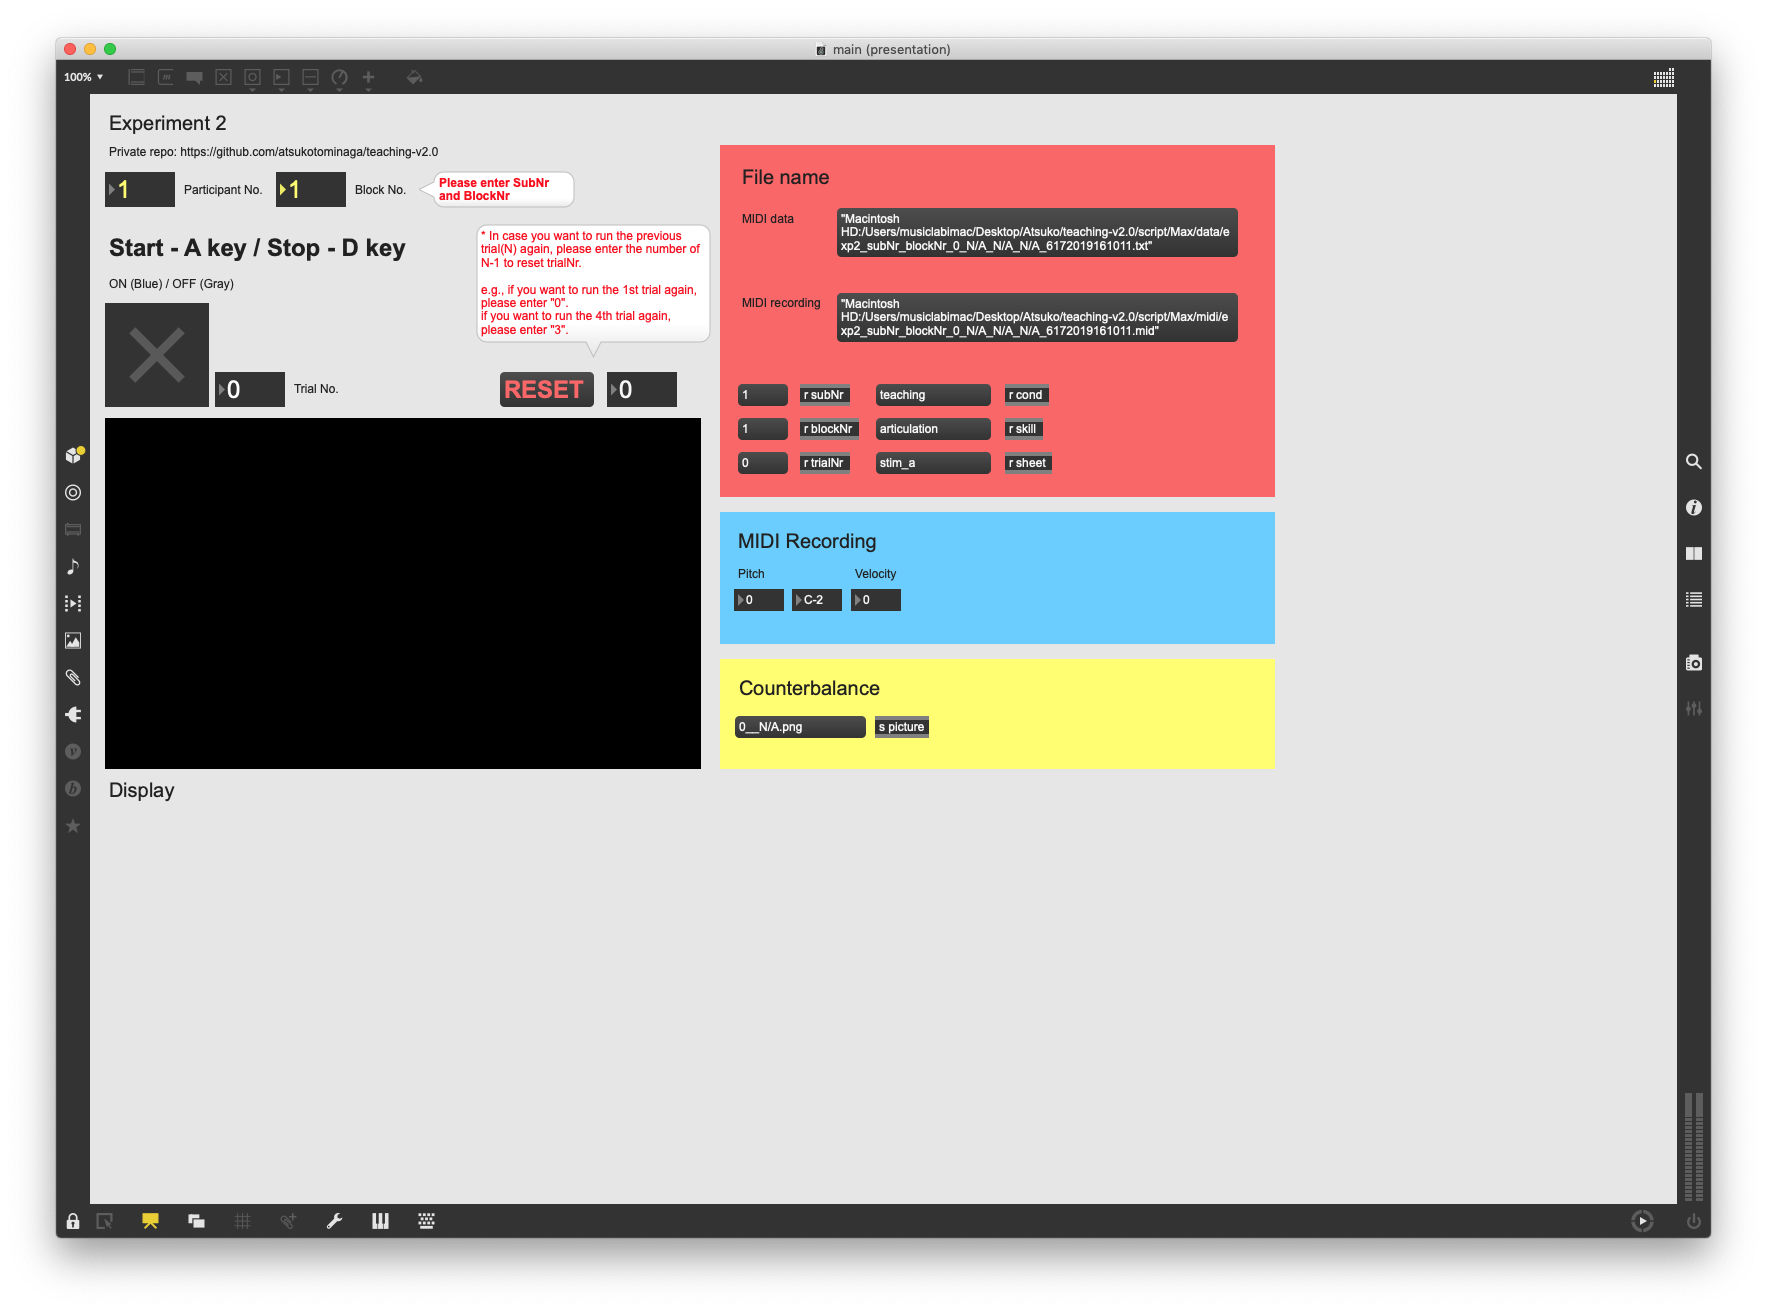
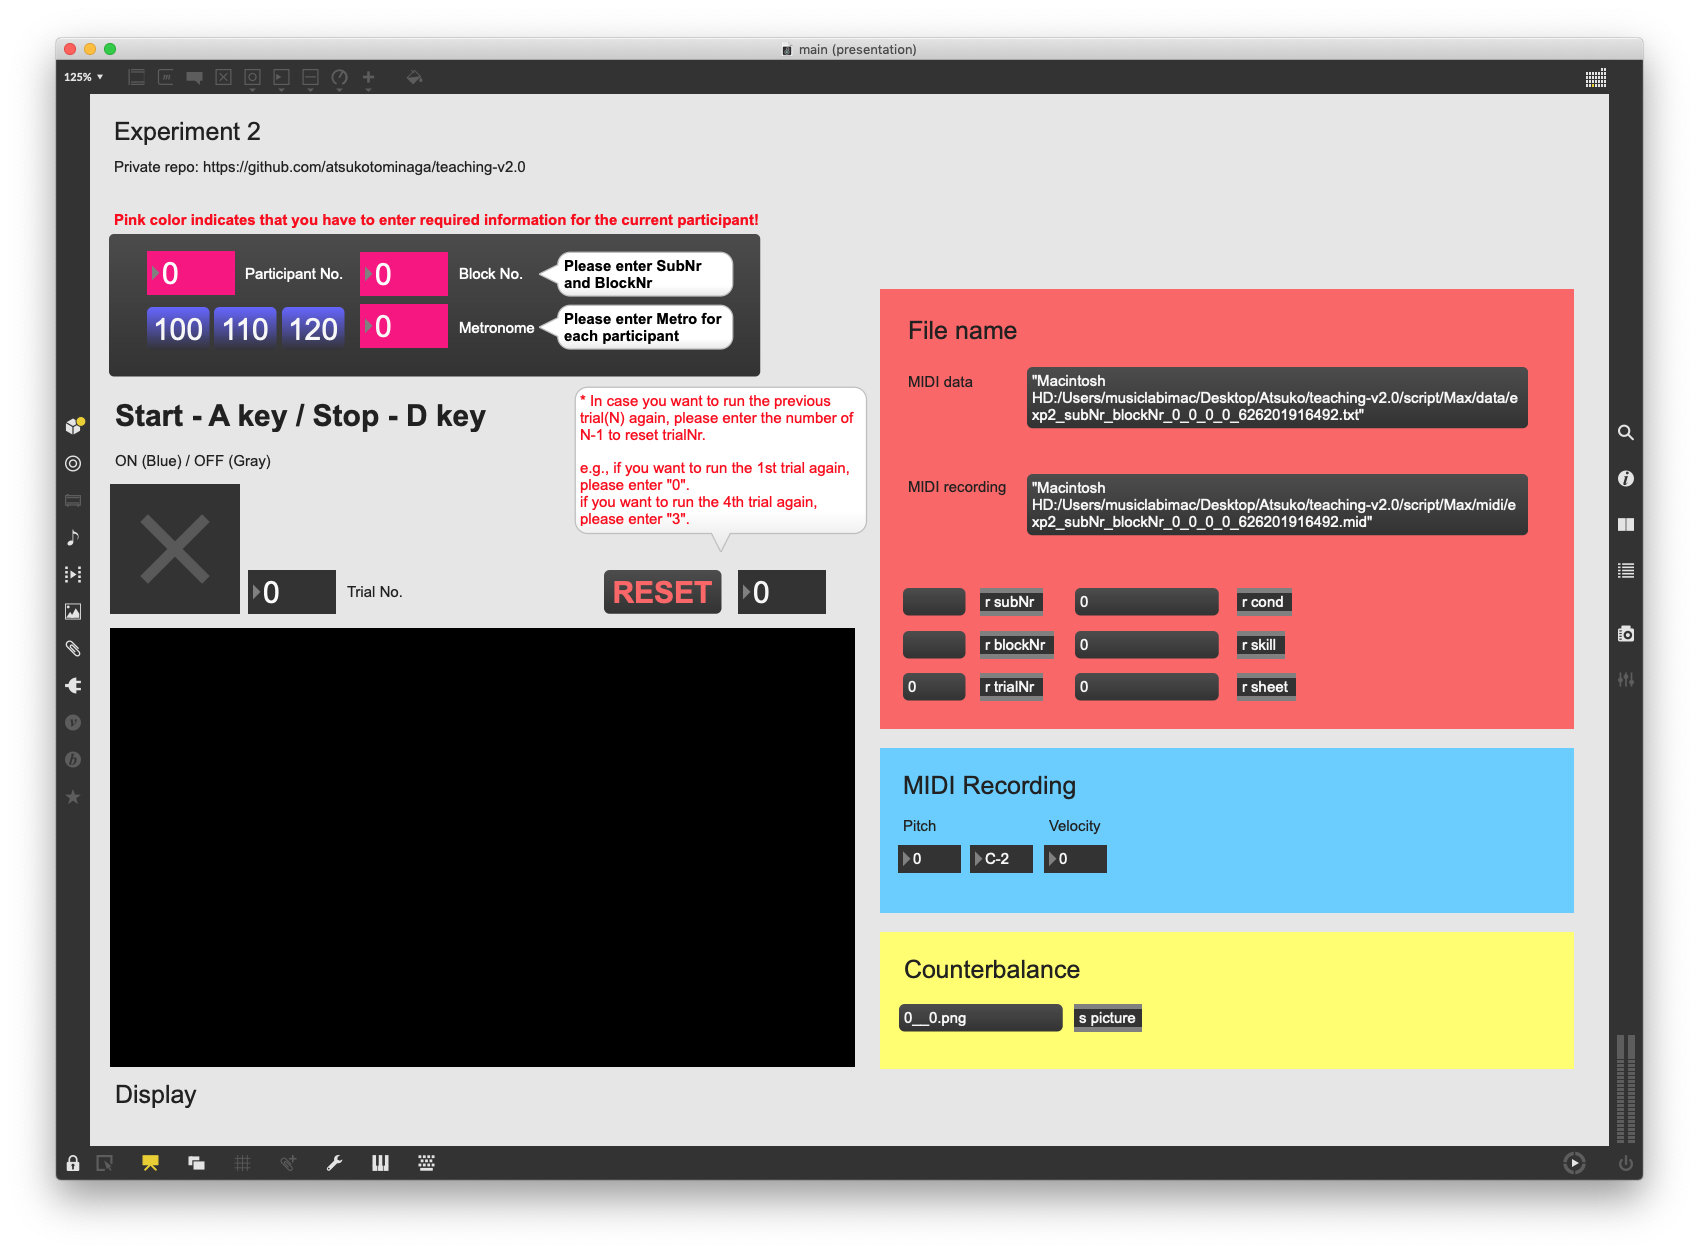
Update instruction

diff --git a/material/instruction/instruction.md b/material/instruction/instruction.md
@@ -20,7 +20,8 @@ Author: Atsuko Tominaga - 23/06/2019 (teaching_v2.0)
 
 ## BEFORE PARTICIPANT ARRIVES:
 - Turn off WiFi connection
-- Devices
+
+### Devices
 1. Connect the audio interface (Focusrite Scarlett 6i6) to Macbook Pro.
 2. Connect two headphones to the audio interface.
 3. Connect the piano to the audio interface.
@@ -40,7 +41,7 @@ Adjust the volume of the headphone so that it sounds naturally.
 ### Max
 
 1. Go to **Desktop >> Atsuko_teaching-v2.0 >> open the "main.maxpat", the “practice.maxpat” and the “display.maxpat”**.
-2. Move the window of the “display.maxpat” to the right (on the screen in front of the piano”) and press F for a fullscreen mode. If there is a toobar surrounding the display, get rid of it by pressing cmd+8 (not F8).
+2. Move the window of the “display.maxpat” to the right (on the screen in front of the piano”) and press F for a fullscreen mode. <span>If there is a toobar surrounding the display, get rid of it by pressing cmd+8 (not F8)</span>.
 3. Read the instruction on the “main.maxpat" and the "practice.maxpat".
 4. Also check whether the piano sounds come from the headphone and <span>MIDI inputs are correctly responded (Pitch and Velocity should change according to key presses on MIDIRecording subpatchers)</span>.
 5. If the sound of the metronome and the piano does not come from the computer speaker, go to **System Preference >> Sound >> Output >> select “Scarllet 6i6 USB”**.
@@ -52,9 +53,31 @@ Adjust the volume of the headphone so that it sounds naturally.
 
 <img src="./image/praPatch.png">
 
+* Enter SubNr, BlockNr (0 for practice) (and preferred tempo (100, 110, 120) later).
+* Once you entered SubNr, the order of the conditions/skills will be automatically filled.
+
+The left panel indicates the procedure of the experiment.
+1. For practice, click "Non expression" to display sheet music.
+2. Ask participants to choose one of the preferred tempi. When you click one of the options, the sound of a metronome starts playing. 
+3. Enter the preferred tempo.
+
+- Start Recording (J key)
+- Stop Recording (L key)
+- Reset button (see the instruction on the patcher)
+- inst_1: the first instruction
+- inst_2: the second instruction
+- inst_t: teaching instruction
+- inst_p: performing instruction
+- Pitch Error Detection: Both onset and offset should be correct. Otherwise, repeat a trial again (up to 5 times).
+
+
 ### Main Patch
 
 <img src="./image/mainPatch.png">
+
+- Start Recording (A key)
+- Stop Recording (D key)
+- Reset button (see the instruction on the patcher)
 
 ### Experimental Design <span>
 |Condition 1 (teaching / performing)|
@@ -107,11 +130,11 @@ Adjust the volume of the headphone so that it sounds naturally.
 
 <img src="./image/prac_stim_n.png">
 
-> **Click “Metro” / Ask participants to choose one of the favourite tempi**
+> **Ask participants to choose one of the favourite tempi**
 
 *Please practise until you feel that you comfortably perform the piece without pitch errors. After practice, we will have a brief test to make sure you can perform the piece. Let me know when you are ready for the brief test.*
 
-> **Let the participant practise the piece**
+> **Let the participant practise the piece (100, 110, 120 bpm)**
 
 > **Click "inst_2"**
 
@@ -121,7 +144,7 @@ Adjust the volume of the headphone so that it sounds naturally.
 
 > **Click "Non expression"**
 
-- If he or she cannot perform the piece within **5 attempts**, he or she cannot continue the experiment.
+- If he or she cannot perform the piece without errors within **5 attempts**, leave a memo and continue the experiment.
 
 ### Experiment
 
